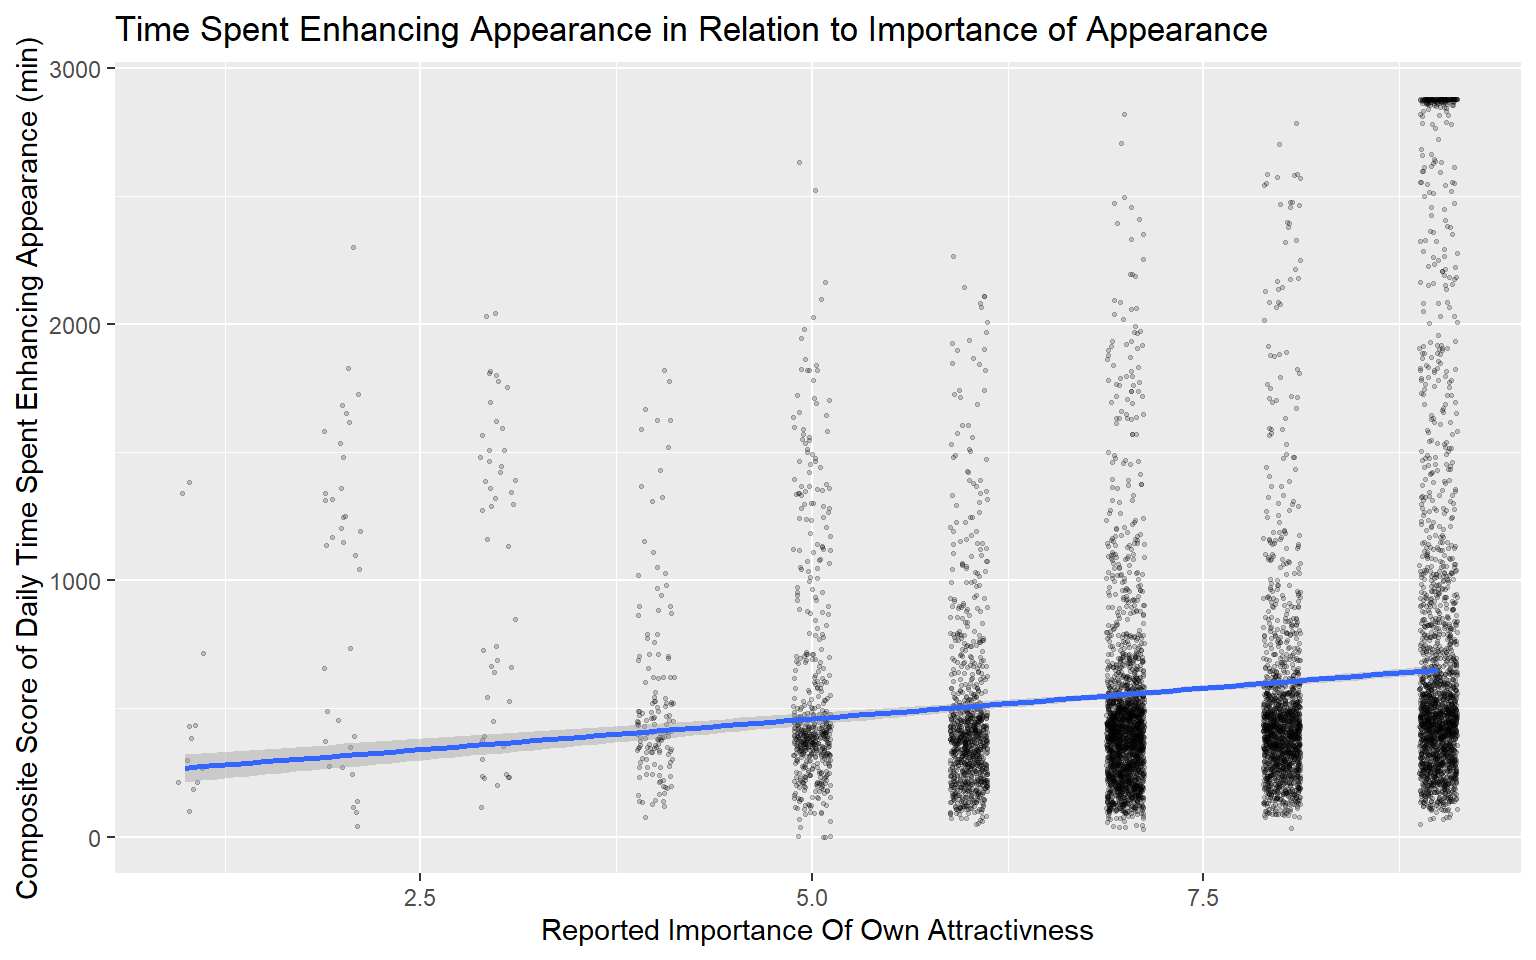
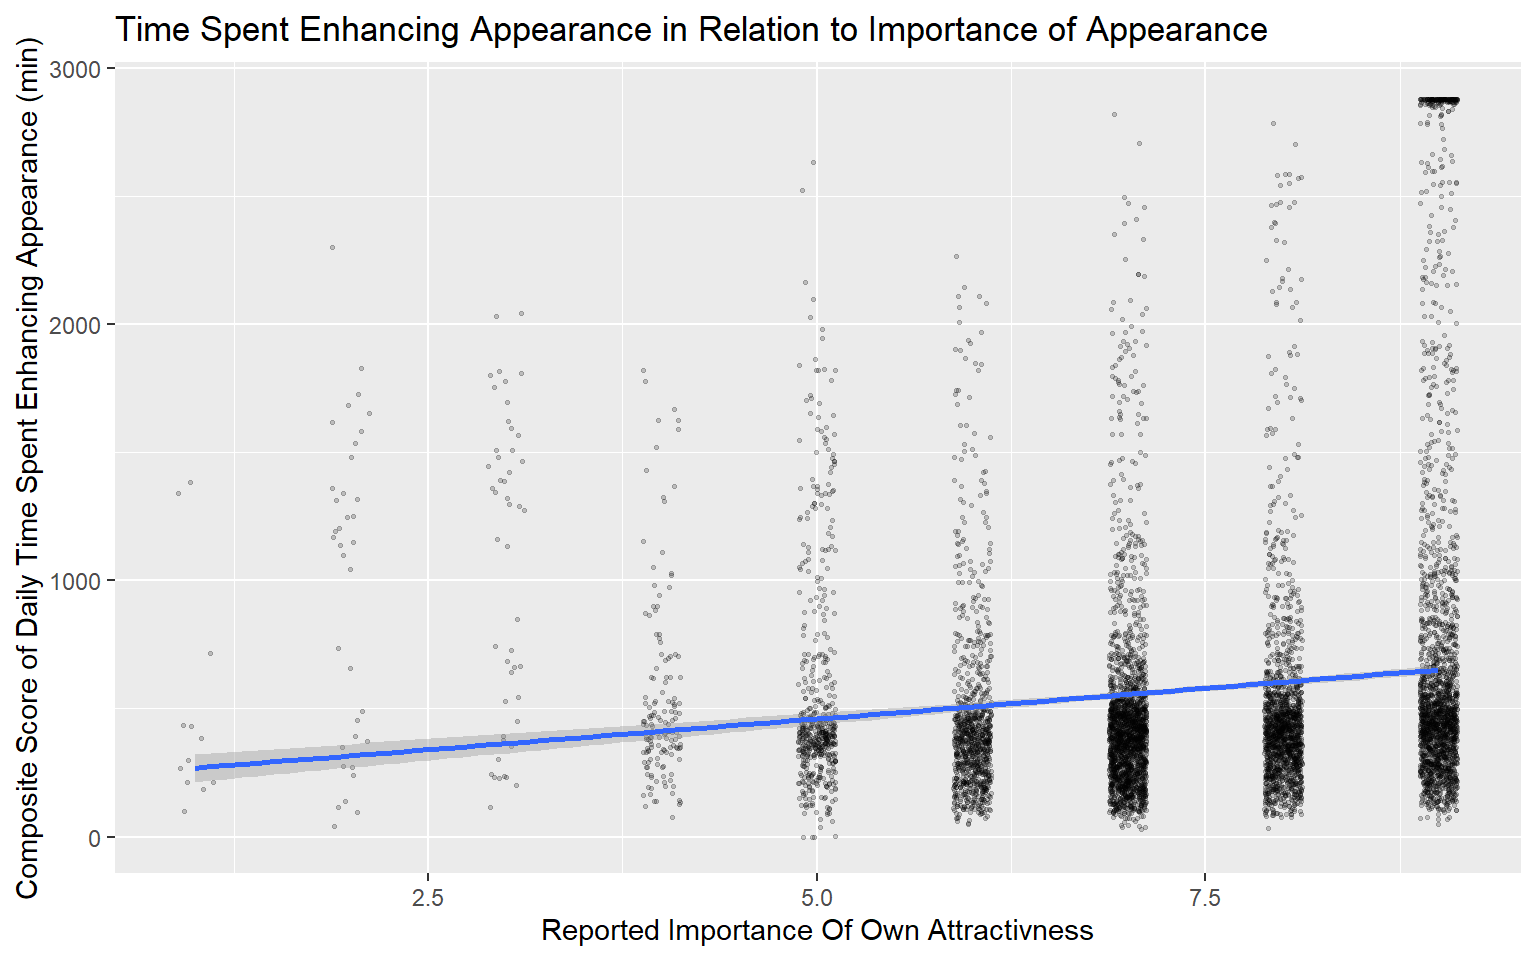
typo correction

diff --git a/script/lab6_quarto_JS.html b/script/lab6_quarto_JS.html
@@ -147,7 +147,7 @@ pre > code.sourceCode > span > a:first-child::before { text-decoration: underlin
 <section id="variables-and-descriptive-statistics" class="level3">
 <h3 class="anchored" data-anchor-id="variables-and-descriptive-statistics">Variables and descriptive statistics</h3>
 <ul>
-<li><strong>Political beliefs (<code>cot_politics</code>):</strong> Categorical variable with three groups: “far_left”, “center_left”, “center”, “center_right”, far_right”.</li>
+<li><strong>Political beliefs (<code>cot_politics</code>):</strong> Categorical variable with five groups: “far_left”, “center_left”, “center”, “center_right”, far_right”.</li>
 <li><strong>Physical attractivenes (<code>self_phsysatt</code>):</strong> Numerical variable with self reported point rating of individuals physical attractivness on a scale from 1 to 11, where 1 is very low and 11 is very high.</li>
 </ul>
 <div class="cell">
@@ -385,7 +385,7 @@ sample estimates:
 0.1288774 </code></pre>
 </div>
 </div>
-<p>A correlation coefficient of 0.13 indicates a weak, positive linear relationship between the two variables. Respondents who reported more confidence in finding a new partner tended to report lower commitment. Individuals who place greater importance on their physical appearance tend to spend slightly more time enhancing it, though this tendency is small.</p>
+<p>A correlation coefficient of 0.13 indicates a weak, positive linear relationship between the importance of attractiveness and time spent enhancing appearance. The correlation is statistically significant (r = 0.13, t(7636) = 11.36, p &lt; .001, 95% CI [0.107, 0.151]). Individuals who place greater importance on their physical appearance tend to spend slightly more time enhancing it, although this relationship is small.</p>
 </section>
 </section>
 
